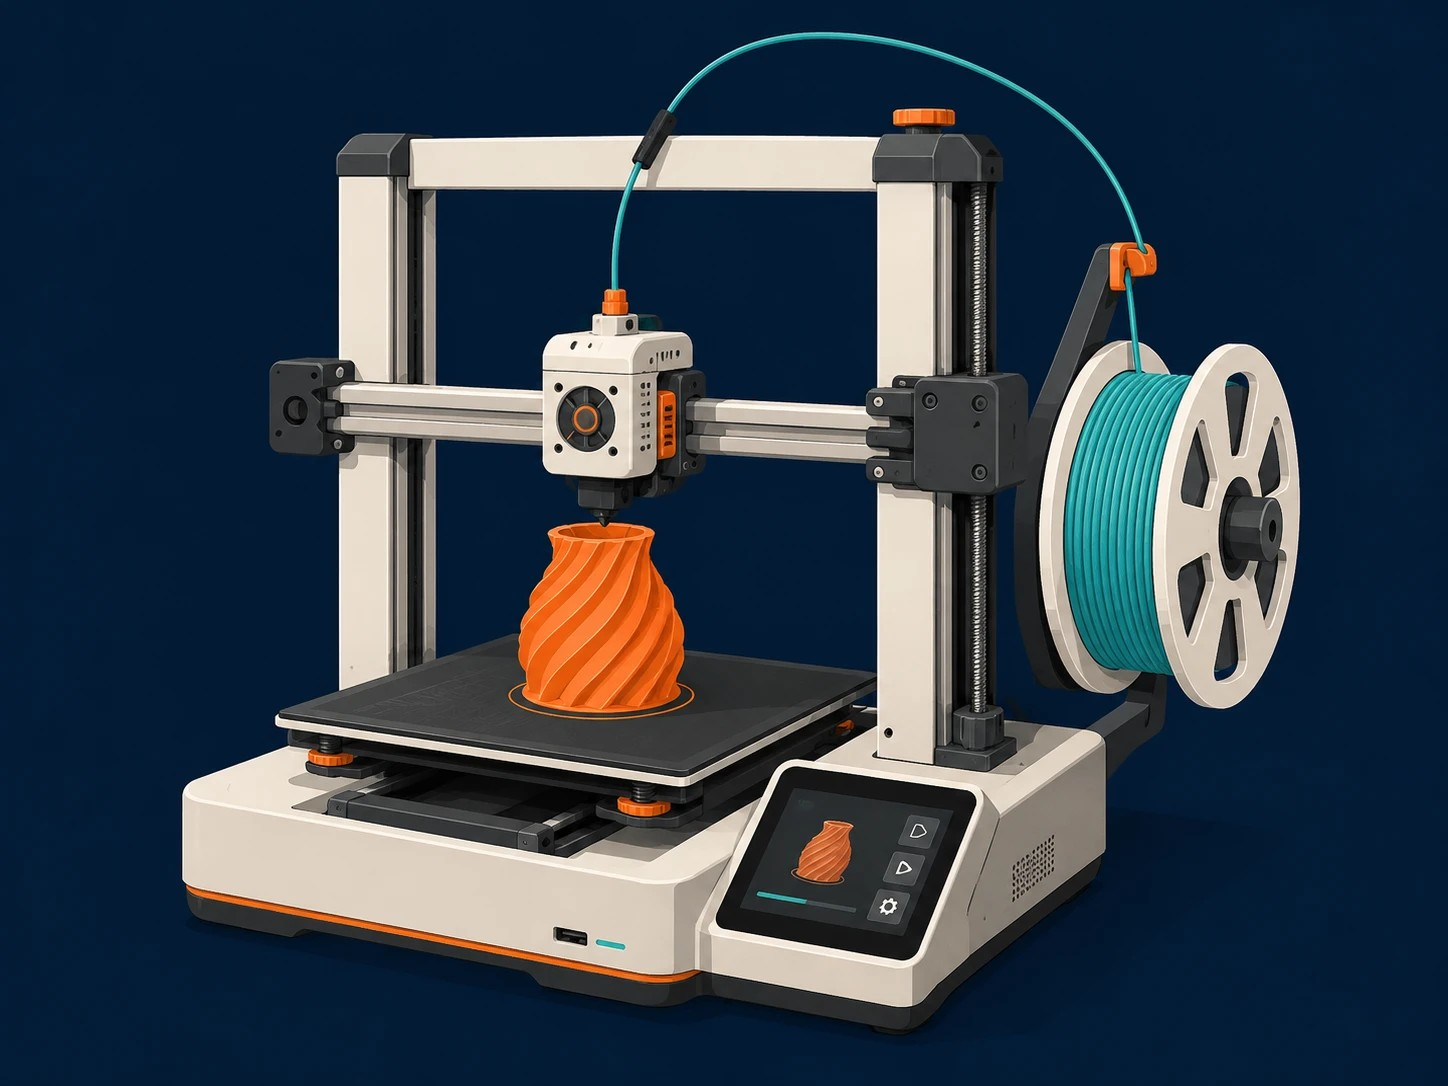
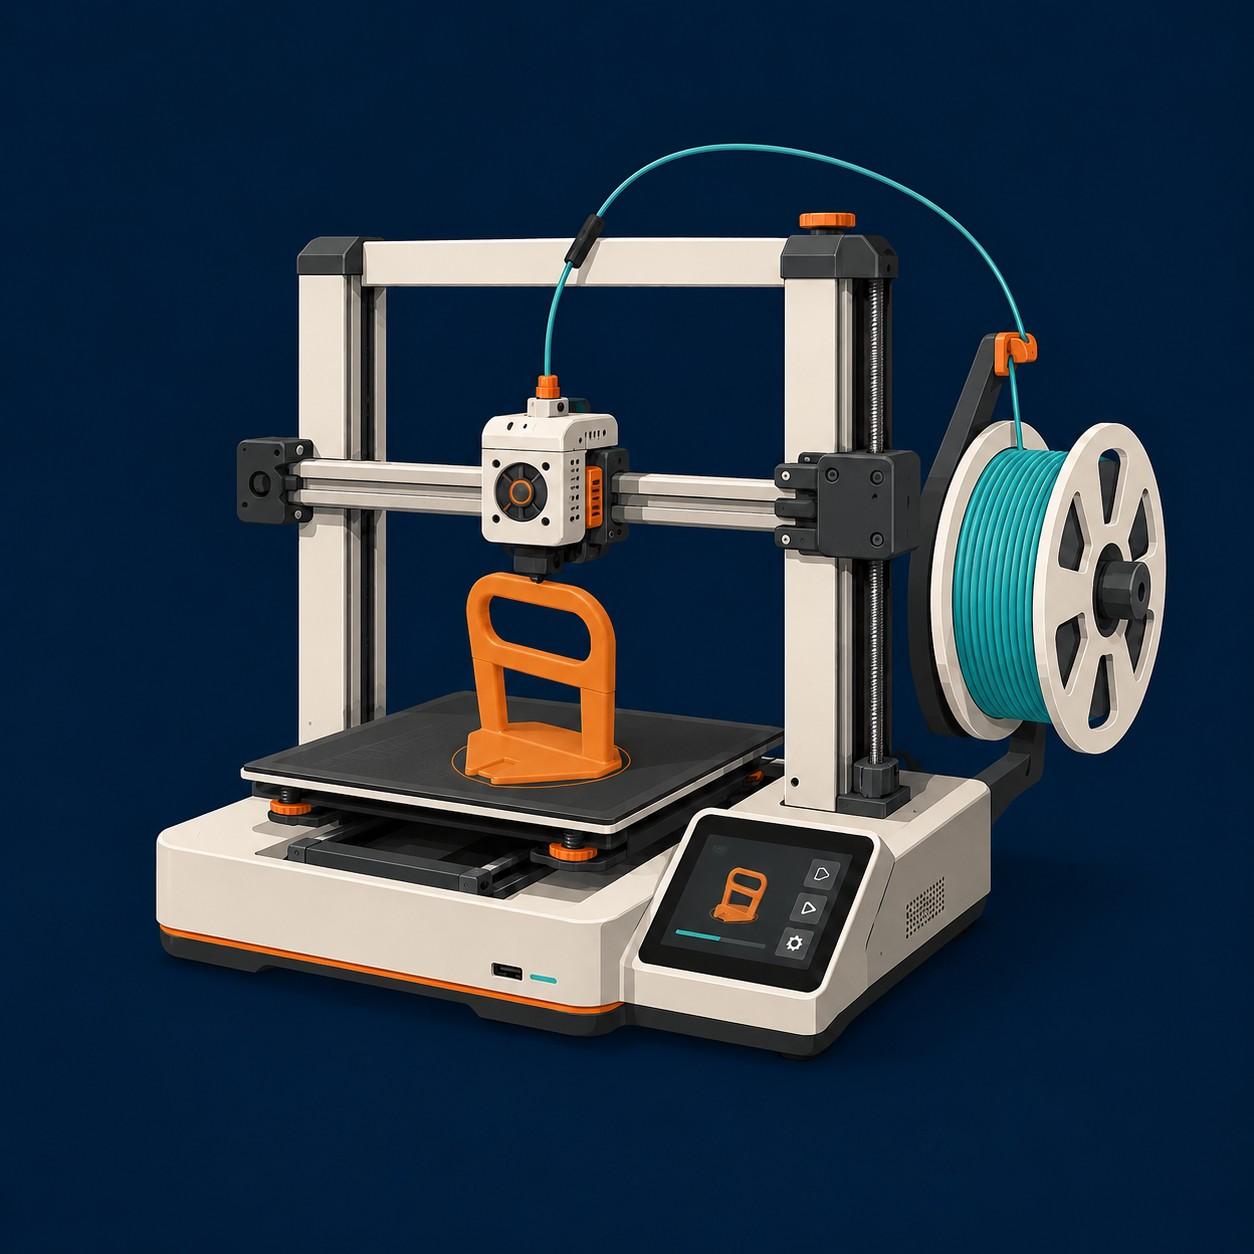
½ journée 01 : révise Sections 2/3/4, annule le plafond de largeur
- Annule le plafond de largeur (700px) sur .aide/.enc/.duo-txt ajouté
  précédemment — ne convenait pas, retour au comportement d'avant.
- Section 2 : texte et vidéo côte à côte (au lieu d'empilés) pour
  tenir sur un seul écran sans défilement vertical. Ajoute une note
  sur les autres technologies d'impression 3D (SLA, SLS).
- Section 3 : remplace le schéma par la nouvelle photo de
  l'imprimante fournie. Passe en 2 colonnes (image à gauche, encadré
  sécurité à droite) pour tenir sur un écran. Ajoute un 4e point
  cliquable dédié à la buse (diamètres, compromis détail/vitesse),
  qui était auparavant noyé dans la description de la tête
  d'impression.
- Section 4 : passe en 2 colonnes (texte + tableau à gauche, nouvelle
  photo des bobines de filament à droite).

Claude-Session: https://claude.ai/code/session_01JwbwpiPjXn1ePk8D2HQhJz

diff --git a/demi-journee-1.html b/demi-journee-1.html
@@ -56,49 +56,72 @@
 
   <section class="slide"><div class="wrap">
     <h2>Section 2 — Comment la machine fabrique</h2>
-    <p class="souligne">Fabrication additive</p>
-    <p><b>FDM</b> = Fused Deposition Modeling, modélisation par dépôt de matière fondue. C'est la technologie d'impression 3D la plus répandue et la plus accessible. Elle fabrique un objet réel en superposant des couches de plastique fondu, à partir d'un modèle numérique.</p>
-    <p>Le principe est l'inverse de ce que fait une meuleuse : au lieu d'enlever de la matière à un bloc, la machine en ajoute, couche après couche, uniquement là où c'est nécessaire.</p>
-    <div class="video-slot">
-      <iframe src="https://www.youtube-nocookie.com/embed/MZROg5rd6AM" title="Vidéo — le fonctionnement d'une imprimante FDM" allow="accelerometer; autoplay; clipboard-write; encrypted-media; gyroscope; picture-in-picture; web-share" allowfullscreen></iframe>
+    <div class="duo">
+      <div>
+        <p class="souligne">Fabrication additive</p>
+        <p><b>FDM</b> = Fused Deposition Modeling, modélisation par dépôt de matière fondue. C'est la technologie d'impression 3D la plus répandue et la plus accessible. Elle fabrique un objet réel en superposant des couches de plastique fondu, à partir d'un modèle numérique.</p>
+        <p>Le principe est l'inverse de ce que fait une meuleuse : au lieu d'enlever de la matière à un bloc, la machine en ajoute, couche après couche, uniquement là où c'est nécessaire.</p>
+        <p class="aide">D'autres technologies existent : la SLA (résine liquide durcie par UV) pour un rendu très précis, ou le SLS (poudre fondue au laser) pour des pièces sans support. Le principe reste le même — ajouter la matière couche par couche — mais avec un matériau et un usage différents.</p>
+      </div>
+      <div class="video-slot" style="margin:0">
+        <iframe src="https://www.youtube-nocookie.com/embed/MZROg5rd6AM" title="Vidéo — le fonctionnement d'une imprimante FDM" allow="accelerometer; autoplay; clipboard-write; encrypted-media; gyroscope; picture-in-picture; web-share" allowfullscreen></iframe>
+      </div>
     </div>
   </div></section>
 
   <section class="slide"><div class="wrap">
     <h2>Section 3 — Les parties d'une imprimante</h2>
-    <p class="zc-hint"><svg class="ic" viewBox="0 0 24 24" fill="none" stroke="currentColor" stroke-width="2" stroke-linecap="round" stroke-linejoin="round" aria-hidden="true"><circle cx="12" cy="12" r="3"/><path d="M2 12s3.5-7 10-7 10 7 10 7-3.5 7-10 7-10-7-10-7Z"/></svg>Touche chaque point du schéma pour découvrir à quoi sert cette partie.</p>
-    <div class="zone-clic">
-      <div class="zc-ph"><svg viewBox="0 0 24 24" fill="none" stroke="currentColor" stroke-width="1.7" stroke-linecap="round" stroke-linejoin="round" aria-hidden="true"><rect x="3" y="3" width="18" height="18" rx="2" ry="2"/><circle cx="8.5" cy="8.5" r="1.5"/><polyline points="21 15 16 10 5 21"/></svg><b>Schéma de l'imprimante</b><small>assets/demi-journee-1/imprimante.jpg</small></div>
-      <img src="assets/demi-journee-1/imprimante.jpg" alt="Schéma de l'imprimante 3D" onerror="this.remove()">
-      <button class="hotspot" style="left:44%; top:33%" onclick="ouvrePoint('tete')">1</button>
-      <button class="hotspot" style="left:33%; top:68%" onclick="ouvrePoint('plateau')">2</button>
-      <button class="hotspot" style="left:66%; top:87%" onclick="ouvrePoint('ecran')">3</button>
-    </div>
-    <p class="zc-legende">1 — Tête d'impression · 2 — Plateau chauffant · 3 — Écran de contrôle</p>
-
-    <div class="enc danger">
-      <svg class="ic" viewBox="0 0 24 24" fill="none" stroke="currentColor" stroke-width="2" stroke-linecap="round" stroke-linejoin="round" aria-hidden="true"><path d="M10.29 3.86 1.82 18a2 2 0 0 0 1.71 3h16.94a2 2 0 0 0 1.71-3L13.71 3.86a2 2 0 0 0-3.42 0Z"/><line x1="12" y1="9" x2="12" y2="13"/><line x1="12" y1="17" x2="12.01" y2="17"/></svg>
+    <div class="duo" style="align-items:start">
       <div>
-        <b>Sécurité</b>
-        <ul>
-          <li>Ne touche jamais la buse ni le plateau. Plus de 200 °C : risque de brûlure.</li>
-          <li>En cas de bruit, d'odeur ou d'erreur, préviens le formateur. Mets en pause, ne force rien.</li>
-          <li>Reste attentif aux premières minutes d'impression. Si la pièce se décolle, il faut arrêter immédiatement.</li>
-        </ul>
+        <p class="zc-hint"><svg class="ic" viewBox="0 0 24 24" fill="none" stroke="currentColor" stroke-width="2" stroke-linecap="round" stroke-linejoin="round" aria-hidden="true"><circle cx="12" cy="12" r="3"/><path d="M2 12s3.5-7 10-7 10 7 10 7-3.5 7-10 7-10-7-10-7Z"/></svg>Touche chaque point du schéma pour découvrir à quoi sert cette partie.</p>
+        <div class="zone-clic" style="aspect-ratio:1; margin:0 0 8px">
+          <div class="zc-ph"><svg viewBox="0 0 24 24" fill="none" stroke="currentColor" stroke-width="1.7" stroke-linecap="round" stroke-linejoin="round" aria-hidden="true"><rect x="3" y="3" width="18" height="18" rx="2" ry="2"/><circle cx="8.5" cy="8.5" r="1.5"/><polyline points="21 15 16 10 5 21"/></svg><b>Schéma de l'imprimante</b><small>assets/demi-journee-1/imprimante.jpg</small></div>
+          <img src="assets/demi-journee-1/imprimante.jpg" alt="Schéma de l'imprimante 3D" onerror="this.remove()">
+          <button class="hotspot" style="left:44%; top:37%" onclick="ouvrePoint('tete')">1</button>
+          <button class="hotspot" style="left:44%; top:46%" onclick="ouvrePoint('buse')">2</button>
+          <button class="hotspot" style="left:37%; top:58%" onclick="ouvrePoint('plateau')">3</button>
+          <button class="hotspot" style="left:58%; top:71%" onclick="ouvrePoint('ecran')">4</button>
+        </div>
+        <p class="zc-legende">1 — Tête d'impression · 2 — Buse · 3 — Plateau chauffant · 4 — Écran de contrôle</p>
+      </div>
+      <div>
+        <div class="enc danger">
+          <svg class="ic" viewBox="0 0 24 24" fill="none" stroke="currentColor" stroke-width="2" stroke-linecap="round" stroke-linejoin="round" aria-hidden="true"><path d="M10.29 3.86 1.82 18a2 2 0 0 0 1.71 3h16.94a2 2 0 0 0 1.71-3L13.71 3.86a2 2 0 0 0-3.42 0Z"/><line x1="12" y1="9" x2="12" y2="13"/><line x1="12" y1="17" x2="12.01" y2="17"/></svg>
+          <div>
+            <b>Sécurité</b>
+            <ul>
+              <li>Ne touche jamais la buse ni le plateau. Plus de 200 °C : risque de brûlure.</li>
+              <li>En cas de bruit, d'odeur ou d'erreur, préviens le formateur. Mets en pause, ne force rien.</li>
+              <li>Reste attentif aux premières minutes d'impression. Si la pièce se décolle, il faut arrêter immédiatement.</li>
+            </ul>
+          </div>
+        </div>
       </div>
     </div>
   </div></section>
 
   <section class="slide"><div class="wrap">
     <h2>Section 4 — Choisir le filament</h2>
-    <p>Le filament est la matière utilisée en impression 3D : un fil plastique chauffé puis déposé couche par couche. Le filament choisi dans le logiciel doit toujours correspondre à celui chargé dans l'imprimante.</p>
-    <table class="tbl">
-      <tr><th>Filament</th><th>Caractéristiques</th></tr>
-      <tr><td>PLA</td><td>Rigide et simple à imprimer.</td></tr>
-      <tr><td>PETG</td><td>Solide, légèrement flexible, résiste mieux à la chaleur.</td></tr>
-      <tr><td>TPU</td><td>Souple et élastique, revient en forme.</td></tr>
-    </table>
-    <p class="aide">Dans l'atelier, c'est toi qui choisis ton filament et qui le charges dans l'imprimante. Il existe bien d'autres filaments que ces trois-là — ce sont simplement ceux avec lesquels tu vas travailler aujourd'hui.</p>
+    <div class="duo">
+      <div>
+        <p>Le filament est la matière utilisée en impression 3D : un fil plastique chauffé puis déposé couche par couche. Le filament choisi dans le logiciel doit toujours correspondre à celui chargé dans l'imprimante.</p>
+        <table class="tbl">
+          <tr><th>Filament</th><th>Caractéristiques</th></tr>
+          <tr><td>PLA</td><td>Rigide et simple à imprimer.</td></tr>
+          <tr><td>PETG</td><td>Solide, légèrement flexible, résiste mieux à la chaleur.</td></tr>
+          <tr><td>TPU</td><td>Souple et élastique, revient en forme.</td></tr>
+        </table>
+        <p class="aide">Dans l'atelier, c'est toi qui choisis ton filament et qui le charges dans l'imprimante. Il existe bien d'autres filaments que ces trois-là — ce sont simplement ceux avec lesquels tu vas travailler aujourd'hui.</p>
+      </div>
+      <div class="duo-img">
+        <div class="duo-ph">
+          <svg viewBox="0 0 24 24" fill="none" stroke="currentColor" stroke-width="1.7" stroke-linecap="round" stroke-linejoin="round" aria-hidden="true"><rect x="3" y="3" width="18" height="18" rx="2" ry="2"/><circle cx="8.5" cy="8.5" r="1.5"/><polyline points="21 15 16 10 5 21"/></svg>
+          <b>Bobines de filament</b>
+          <small>assets/demi-journee-1/filaments.jpg</small>
+        </div>
+        <img src="assets/demi-journee-1/filaments.jpg" alt="Deux bobines de filament Bambu Lab, noir et orange, avec une buse" onerror="this.remove()">
+      </div>
+    </div>
   </div></section>
 
   <section class="slide"><div class="wrap">
@@ -156,9 +179,10 @@
 
 <script>
 const POINTS = {
-  tete: {n:'1', titre:'La tête d’impression', texte:'L’élément central. Le filament y est entraîné, fondu, puis extrudé avec précision par la buse. La buse est percée d’un orifice très fin — souvent entre 0,2 et 0,6 mm — qui détermine la largeur du fil déposé. La tête se déplace selon les instructions du logiciel et dépose la matière uniquement aux endroits nécessaires.'},
-  plateau: {n:'2', titre:'Le plateau chauffant', texte:'La base sur laquelle la pièce se construit. Il est chauffé pour que la première couche adhère bien. Une mauvaise adhérence = pièce ratée.'},
-  ecran: {n:'3', titre:'L’écran de contrôle', texte:'Permet de lancer, mettre en pause ou arrêter une impression. Il affiche la température, la durée restante et le matériau chargé.'},
+  tete: {n:'1', titre:'La tête d’impression', texte:'L’élément central. Il entraîne le filament, le fait fondre, et le pousse vers la buse. La tête se déplace selon les instructions du logiciel et dépose la matière uniquement aux endroits nécessaires.'},
+  buse: {n:'2', titre:'La buse', texte:'C’est elle qui extrude le filament fondu. Elle est percée d’un orifice très fin — le plus souvent entre 0,2 et 0,6 mm — qui détermine la largeur du fil déposé. Une petite buse (0,2 mm) donne plus de détail mais imprime plus lentement ; une grande buse (0,4-0,6 mm) imprime plus vite mais avec moins de finesse.'},
+  plateau: {n:'3', titre:'Le plateau chauffant', texte:'La base sur laquelle la pièce se construit. Il est chauffé pour que la première couche adhère bien. Une mauvaise adhérence = pièce ratée.'},
+  ecran: {n:'4', titre:'L’écran de contrôle', texte:'Permet de lancer, mettre en pause ou arrêter une impression. Il affiche la température, la durée restante et le matériau chargé.'},
   tranchage: {n:'?', titre:'Qu’est-ce que le tranchage ?', texte:'Avant d’imprimer, ton modèle doit passer dans un logiciel spécifique, celui qui « traduit » ton objet 3D pour que la machine le comprenne. Il transforme le modèle en couches successives et crée le chemin que suivra la buse. Ce processus s’appelle le tranchage (slicing).'},
   espace: {n:'1', titre:'Ton espace de travail', texte:'Le carré gris représente la surface réelle d’impression. Vérifie que ta pièce rentre bien dedans.'},
   imprimante: {n:'2', titre:'Le choix de l’imprimante', texte:'Les machines de l’atelier ne sont pas identiques. Un fichier préparé pour une machine ne part pas correctement sur une autre.'},

diff --git a/assets/style.css b/assets/style.css
@@ -79,7 +79,7 @@ h1 small{display:block; font-size:13px; font-weight:600; color:var(--muted); mar
 h2{font-size:28px; font-weight:800; letter-spacing:-0.02em; line-height:1.15; margin:32px 0 7px; color:var(--text);}
 h2:first-of-type{margin-top:0;}
 h3{font-size:19px; font-weight:800; letter-spacing:-0.01em; margin:22px 0 8px; color:var(--text);}
-.aide{color:var(--muted); font-size:15px; margin:0 0 18px; max-width:700px;}
+.aide{color:var(--muted); font-size:15px; margin:0 0 18px;}
 .surtitre{color:var(--mauve-dark); font-size:13px; font-weight:800; text-transform:uppercase; letter-spacing:.06em; margin:0 0 6px;}
 p{margin:0 0 14px;}
 label{display:block; font-weight:700; font-size:15px; margin:18px 0 6px; color:var(--text);}
@@ -112,7 +112,7 @@ label{display:block; font-weight:700; font-size:15px; margin:18px 0 6px; color:v
 
 /* ---- encadré d'info / sécurité ---- */
 .enc{background:var(--blue-soft); border-left:3px solid var(--blue); border-radius:var(--radius-md); padding:12px 15px; font-size:14px;
-  color:var(--blue-dark); margin:14px 0; display:flex; gap:11px; align-items:flex-start; max-width:700px;}
+  color:var(--blue-dark); margin:14px 0; display:flex; gap:11px; align-items:flex-start;}
 .enc .ic{flex:none; margin-top:1px; color:var(--blue);}
 .enc.danger{background:var(--bad-soft); color:#8A2438; border-left-color:var(--bad);}
 .enc.danger .ic{color:var(--bad);}
@@ -145,7 +145,6 @@ label{display:block; font-weight:700; font-size:15px; margin:18px 0 6px; color:v
 .duo-ph svg{width:30px; height:30px; color:#B7B4CC;}
 .duo-ph b{font-size:14px; font-weight:600; color:#8B889F;}
 .duo-ph small{font-size:11.5px; color:#A6A3B8; font-family:ui-monospace,"SF Mono",Menlo,monospace;}
-.duo-txt{max-width:700px;}
 .duo-txt p:last-child{margin-bottom:0;}
 
 /* ---- vidéo (emplacement, disparaît si le fichier est absent) ---- */
